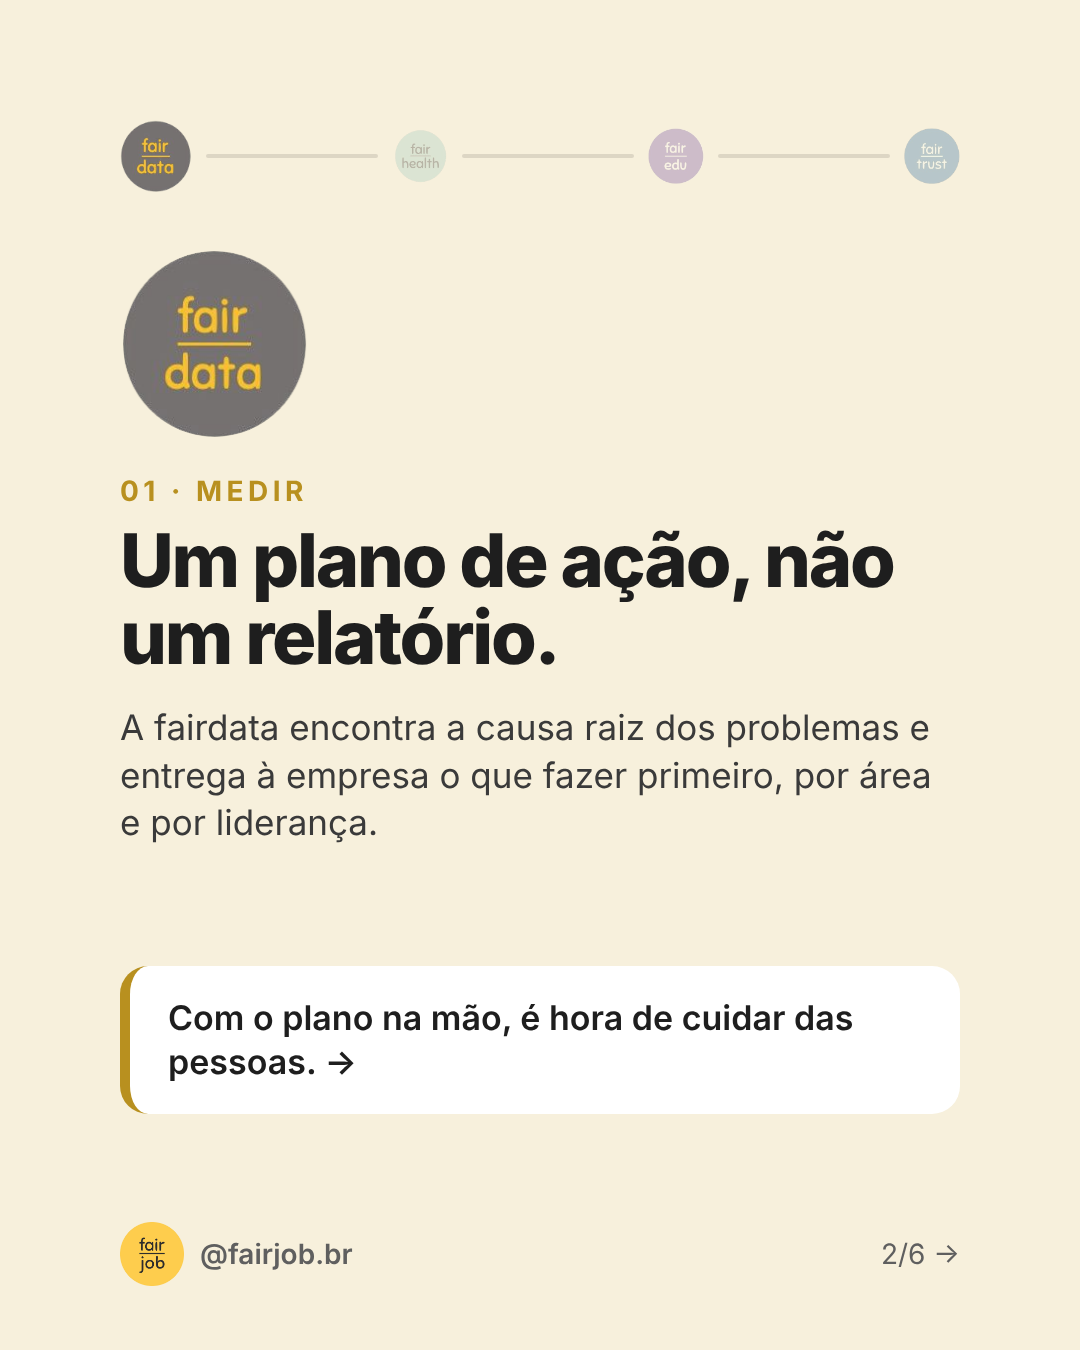
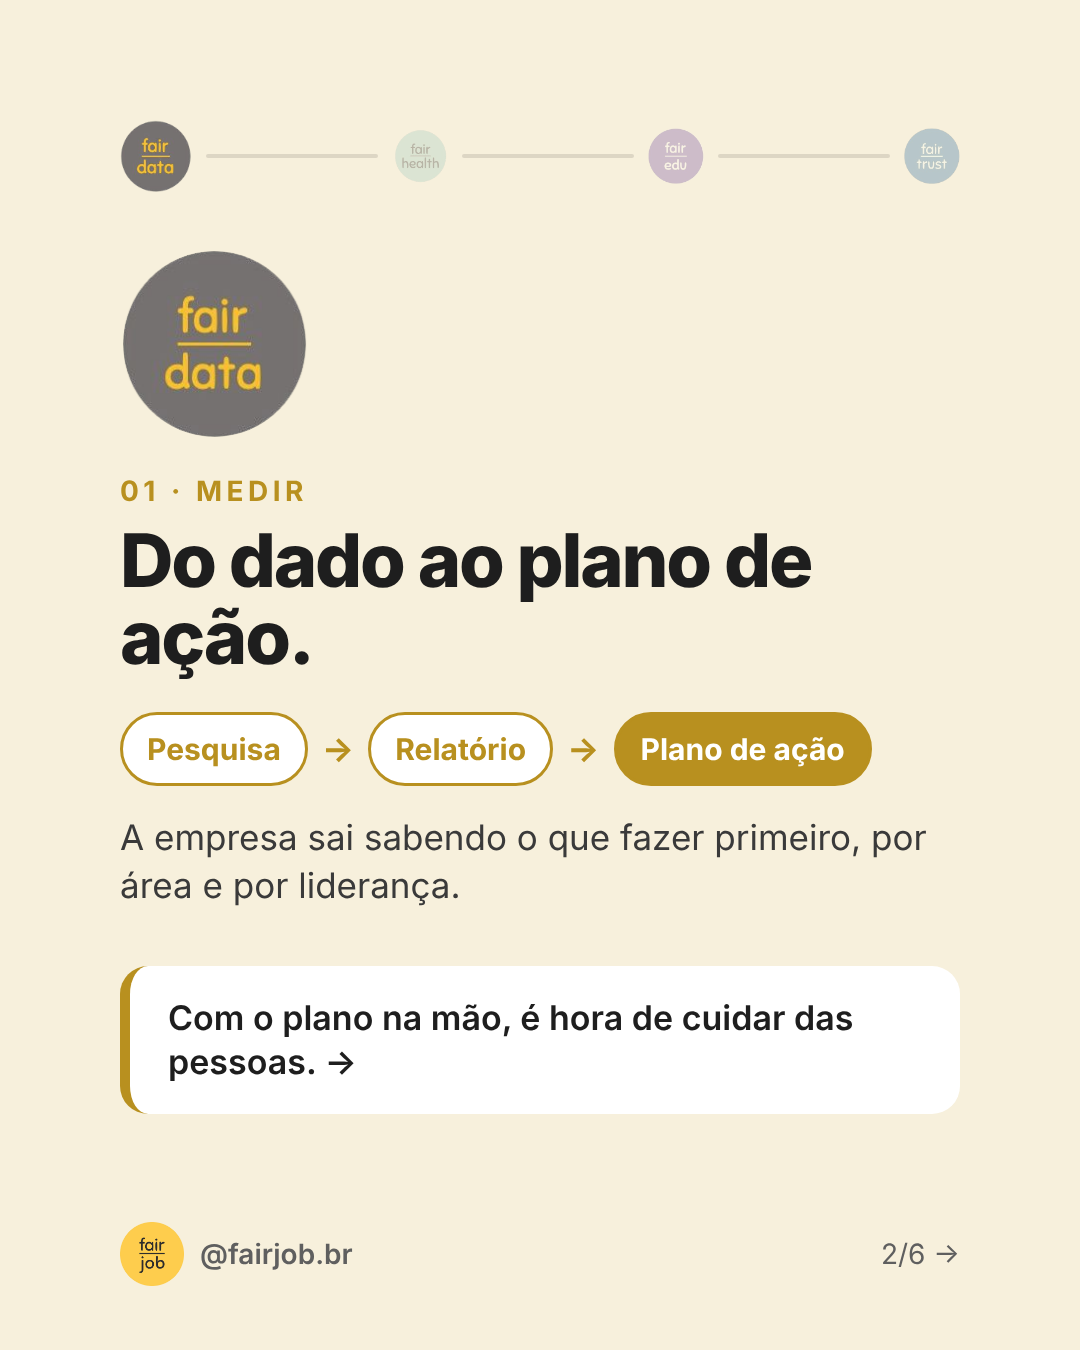
Carousel 01: show fairdata chain (pesquisa, relatório, plano de ação)
Claude-Session: https://claude.ai/code/session_01BNRZX6VSYKwV1xCbt1XY1x

Changed region(s): [[0.0917, 0.3733, 0.8556, 0.6844], [0.5194, 0.6222, 0.55, 0.6533]]

diff --git a/posts/01-ecossistema/carrossel.html b/posts/01-ecossistema/carrossel.html
@@ -62,6 +62,10 @@
   .marca-slide .texto { margin-top: 28px; font-size: 35px; line-height: 1.36; color: #3A3A3A; }
   .marca-slide .ponte { margin-top: auto; margin-bottom: 116px; padding: 30px 38px; border-radius: 28px;
     background: #fff; border-left: 10px solid var(--cor); font-size: 34px; line-height: 1.3; font-weight: 600; }
+  .fluxo { margin-top: 36px; display: flex; align-items: center; gap: 14px; font-size: 30px; font-weight: 700; }
+  .fluxo span { padding: 16px 24px; border-radius: 999px; background: #fff; border: 3px solid var(--cor); color: var(--cor); }
+  .fluxo span.fim { background: var(--cor); color: #fff; }
+  .fluxo i { font-style: normal; color: var(--cor); font-size: 34px; }
   .s-data   { --cor: var(--data);   background: var(--data-bg); }
   .s-health { --cor: var(--health); background: var(--health-bg); }
   .s-edu    { --cor: var(--edu);    background: var(--edu-bg); }
@@ -102,8 +106,9 @@
   </div>
   <img class="logo" src="../assets/logos/fairdata.png" alt="fairdata">
   <div class="etapa">01 · Medir</div>
-  <h2>Um plano de ação, não um relatório.</h2>
-  <p class="texto">A fairdata encontra a causa raiz dos problemas e entrega à empresa o que fazer primeiro, por área e por liderança.</p>
+  <h2>Do dado ao plano de ação.</h2>
+  <div class="fluxo"><span>Pesquisa</span><i>→</i><span>Relatório</span><i>→</i><span class="fim">Plano de ação</span></div>
+  <p class="texto">A empresa sai sabendo o que fazer primeiro, por área e por liderança.</p>
   <div class="ponte">Com o plano na mão, é hora de cuidar das pessoas. →</div>
   <div class="rodape"><div class="marca"><img src="../assets/logos/fairjob.png" alt="">@fairjob.br</div><div>2/6 →</div></div>
 </section>

diff --git a/.claude/instagram/voice.md b/.claude/instagram/voice.md
@@ -8,7 +8,8 @@ Itens marcados **[A CONFIRMAR]** não estavam nas fontes e precisam de resposta.
 
 **Regra de conteúdo:** sempre falar do **efeito** do que entregamos, não da
 ferramenta. A entrega mais importante de cada marca:
-- **FairData:** o plano de ação (o que fazer, por onde começar), não a pesquisa.
+- **FairData:** o plano de ação. A cadeia é pesquisa → relatório → plano de
+  ação; o efeito é a empresa saber o que fazer primeiro.
 - **FairHealth:** o cuidado com o colaborador.
 - **FairEdu:** lideranças mais capazes e efetivas.
 - **FairTrust:** reputação comprovada (prova auditada de que a empresa cuida
